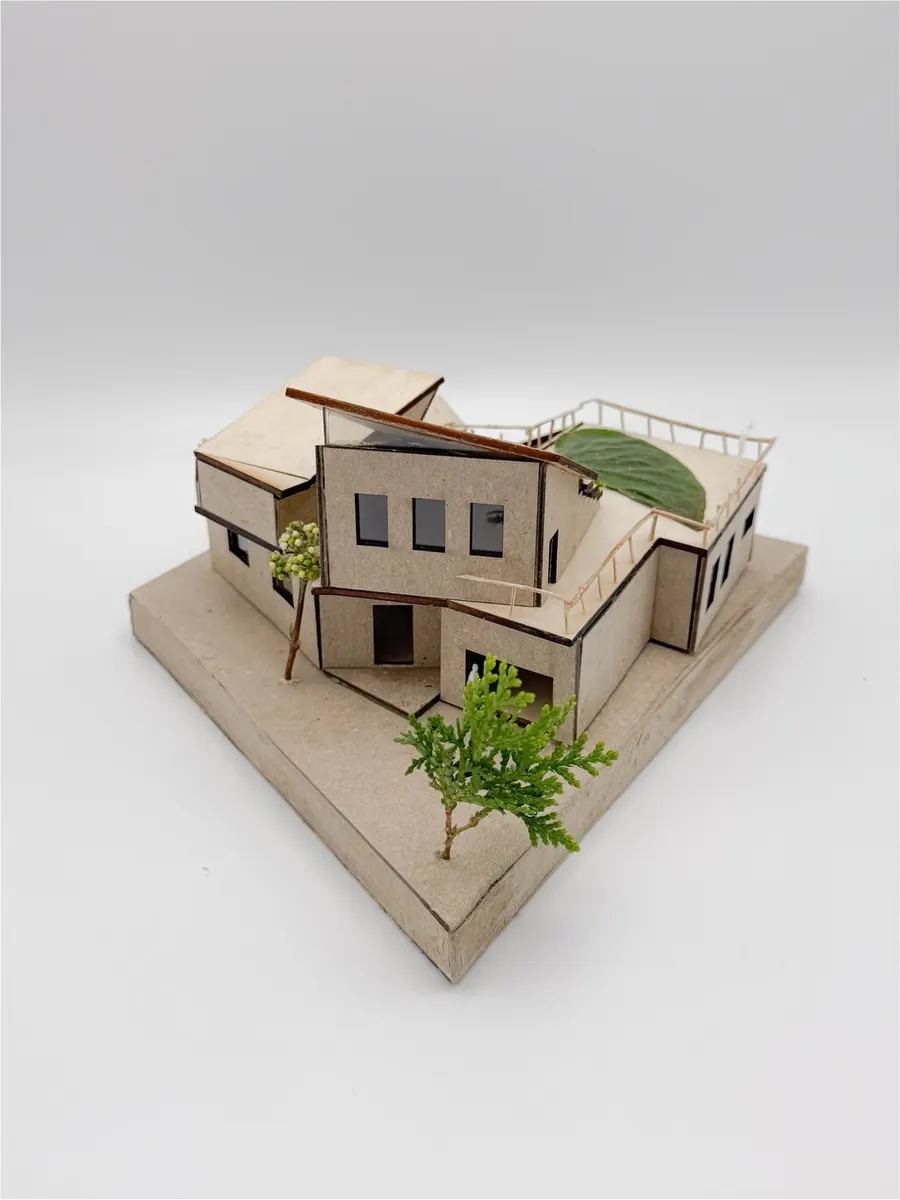
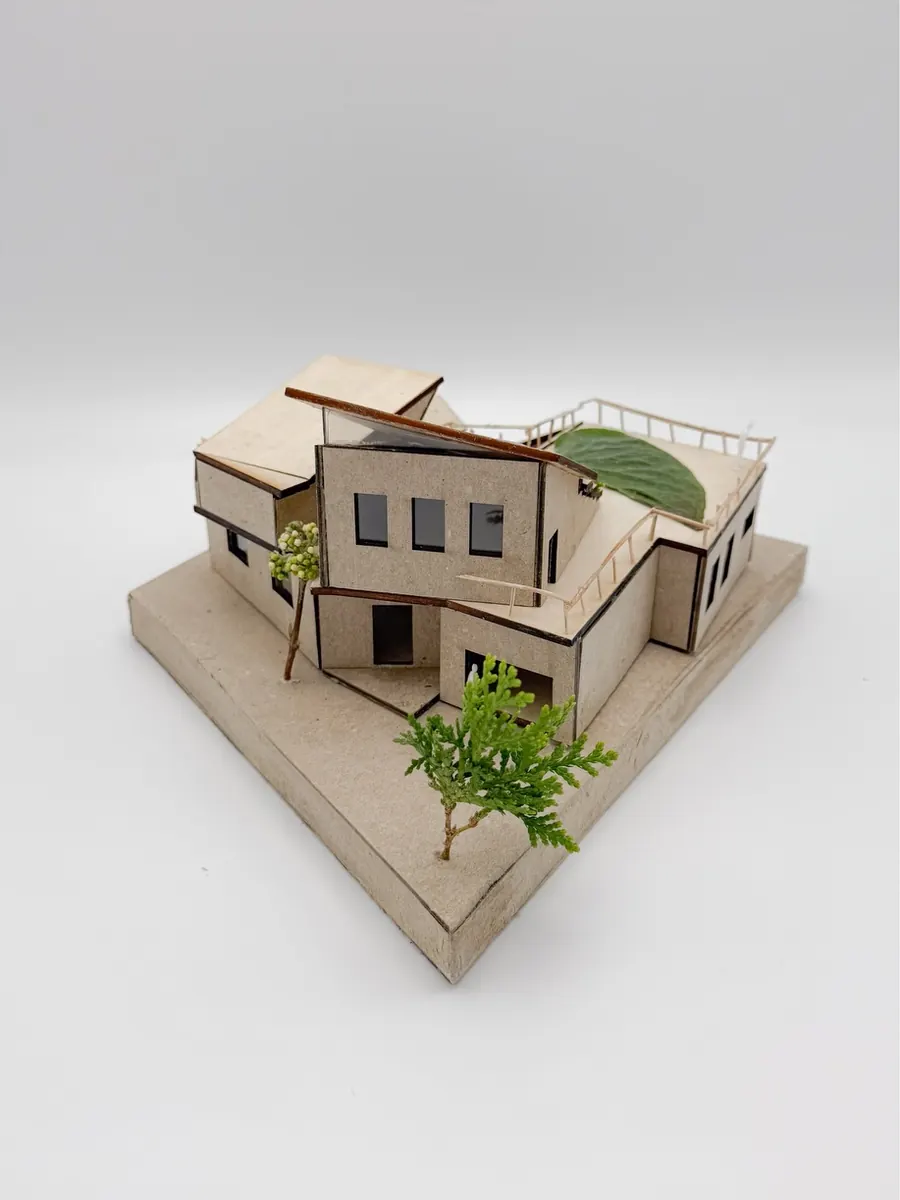
Trim stray edge lines, "the beach", serial commas
- build_images.py shaves 1-3px light lines that screenshots and
  Instagram exports leave on an edge (Flowers, Elk, Valley, the models)
- Lone Tree: "on the beach"
- Intro and meta copy use the serial comma, matching the bio

diff --git a/index.html b/index.html
@@ -4,9 +4,9 @@
 <meta charset="utf-8">
 <meta name="viewport" content="width=device-width, initial-scale=1">
 <title>Grace Gilhool | Photography</title>
-<meta name="description" content="Grace Gilhool photographs portraits, events, sports and food in Telluride and Boulder, Colorado.">
+<meta name="description" content="Grace Gilhool photographs portraits, events, sports, and food in Telluride and Boulder, Colorado.">
 <meta property="og:title" content="Grace Gilhool | Photography">
-<meta property="og:description" content="Grace Gilhool photographs portraits, events, sports and food in Telluride and Boulder, Colorado.">
+<meta property="og:description" content="Grace Gilhool photographs portraits, events, sports, and food in Telluride and Boulder, Colorado.">
 <meta property="og:image" content="https://gracegilhool.com/images/fulls/beret-portrait.webp">
 <link rel="icon" href="favicon.png">
 <link rel="preconnect" href="https://fonts.googleapis.com">
@@ -21,8 +21,8 @@
 </header>
 <main>
 <section class="intro">
-  <h1>Portraits, events, sports and food, photographed in Telluride and Boulder, Colorado.</h1>
-  <p>Now booking senior portraits, headshots and events. <a href="#contact">Get in touch</a></p>
+  <h1>Portraits, events, sports, and food, photographed in Telluride and Boulder, Colorado.</h1>
+  <p>Now booking senior portraits, headshots, and events. <a href="#contact">Get in touch</a></p>
 </section>
 <section id="work" class="work" aria-label="Photography">
   <div class="filters" role="group" aria-label="Filter photos"><button type="button" data-filter="all" aria-pressed="true">All</button><button type="button" data-filter="portraits" aria-pressed="false">Portraits</button><button type="button" data-filter="events" aria-pressed="false">Events &amp; Sports</button><button type="button" data-filter="food" aria-pressed="false">Food</button><button type="button" data-filter="film" aria-pressed="false">Film</button><button type="button" data-filter="places" aria-pressed="false">Places &amp; Nature</button></div>
@@ -41,7 +41,7 @@
   <figure data-tag="places" style="--r:0.667"><a href="images/fulls/canal.webp" data-title="Canal" data-caption=""><img src="images/thumbs/canal.webp" width="800" height="1200" alt="Tree-lined canal with moored boats" loading="lazy" decoding="async"></a></figure>
   <figure data-tag="food" style="--r:1.500"><a href="images/fulls/cocktail.webp" data-title="Cocktail" data-caption=""><img src="images/thumbs/cocktail.webp" width="1200" height="800" alt="Pink cocktail with a rosemary garnish beside a salad" loading="lazy" decoding="async"></a></figure>
   <figure data-tag="portraits" style="--r:1.500"><a href="images/fulls/tula.webp" data-title="Indecisiveness" data-caption="Clearly Tula is on the fence about something... again."><img src="images/thumbs/tula.webp" width="1200" height="800" alt="Young woman in a white dress by a wooden fence below red mountains" loading="lazy" decoding="async"></a></figure>
-  <figure data-tag="places" style="--r:0.666"><a href="images/fulls/elk.webp" data-title="Elk" data-caption=""><img src="images/thumbs/elk.webp" width="799" height="1200" alt="Two young elk in a meadow" loading="lazy" decoding="async"></a></figure>
+  <figure data-tag="places" style="--r:0.667"><a href="images/fulls/elk.webp" data-title="Elk" data-caption=""><img src="images/thumbs/elk.webp" width="800" height="1200" alt="Two young elk in a meadow" loading="lazy" decoding="async"></a></figure>
   <figure data-tag="events" style="--r:1.527"><a href="images/fulls/img-9503.webp" data-title="#3 on the field" data-caption="This photo was taken on some expensive ass camera :)"><img src="images/thumbs/img-9503.webp" width="1170" height="766" alt="Telluride lacrosse player driving past a defender" loading="lazy" decoding="async"></a></figure>
   <figure data-tag="portraits" style="--r:1.500"><a href="images/fulls/lucja.webp" data-title="Lucja" data-caption="Lucja in math class, surrounded by logs"><img src="images/thumbs/lucja.webp" width="1200" height="800" alt="Young woman framed by driftwood logs on a beach" loading="lazy" decoding="async"></a></figure>
   <figure data-tag="places" style="--r:1.500"><a href="images/fulls/boots.webp" data-title="Boots" data-caption=""><img src="images/thumbs/boots.webp" width="1200" height="800" alt="Rain boots used as flower pots" loading="lazy" decoding="async"></a></figure>
@@ -50,8 +50,8 @@
   <figure data-tag="portraits" style="--r:1.519"><a href="images/fulls/img-9501.webp" data-title="Happy Olivia and Contemplative Tula" data-caption="Olivia just enjoying sitting down for once. Tula be like: &quot;Damnnn&quot;"><img src="images/thumbs/img-9501.webp" width="1170" height="770" alt="Two friends resting on red rocks" loading="lazy" decoding="async"></a></figure>
   <figure data-tag="places" style="--r:1.500"><a href="images/fulls/monkey.webp" data-title="Monkey" data-caption="A monkey in Costa Rica"><img src="images/thumbs/monkey.webp" width="1200" height="800" alt="Monkey in a leafy tree" loading="lazy" decoding="async"></a></figure>
   <figure data-tag="places" style="--r:1.535"><a href="images/fulls/img-9511.webp" data-title="Earf DAY" data-caption="For all Earth Day haters: &quot;F U&quot;"><img src="images/thumbs/img-9511.webp" width="1170" height="762" alt="Person crossing a suspension bridge into the jungle" loading="lazy" decoding="async"></a></figure>
-  <figure data-tag="places" style="--r:1.529"><a href="images/fulls/img-9500.webp" data-title="Flowers" data-caption="I honestly had no clue what to say for this one"><img src="images/thumbs/img-9500.webp" width="1170" height="765" alt="Small yellow wildflowers against a sandstone wall" loading="lazy" decoding="async"></a></figure>
-  <figure data-tag="places" style="--r:1.527"><a href="images/fulls/img-9512.webp" data-title="Lone Tree" data-caption="The inconstency of the Tree&#x27;s trajectory is highlited by a beautiful sunset on some beach."><img src="images/thumbs/img-9512.webp" width="1170" height="766" alt="Driftwood tree silhouetted on a beach at sunset" loading="lazy" decoding="async"></a></figure>
+  <figure data-tag="places" style="--r:1.531"><a href="images/fulls/img-9500.webp" data-title="Flowers" data-caption="I honestly had no clue what to say for this one"><img src="images/thumbs/img-9500.webp" width="1170" height="764" alt="Small yellow wildflowers against a sandstone wall" loading="lazy" decoding="async"></a></figure>
+  <figure data-tag="places" style="--r:1.527"><a href="images/fulls/img-9512.webp" data-title="Lone Tree" data-caption="The inconstency of the Tree&#x27;s trajectory is highlited by a beautiful sunset on the beach."><img src="images/thumbs/img-9512.webp" width="1170" height="766" alt="Driftwood tree silhouetted on a beach at sunset" loading="lazy" decoding="async"></a></figure>
   </div>
 </section>
 <section id="about" class="about">

diff --git a/architecture.html b/architecture.html
@@ -25,7 +25,7 @@
 </section>
 <section class="projects" data-lightbox>
   <article class="project">
-    <div class="project-images" data-count="1"><a href="images/fulls/model-green-roof.webp" data-title="Terraces" data-caption=""><img src="images/thumbs/model-green-roof.webp" width="901" height="1200" alt="Architectural model with stepped planted terraces, a rooftop lawn and solar panels" decoding="async"></a></div>
+    <div class="project-images" data-count="1"><a href="images/fulls/model-green-roof.webp" data-title="Terraces" data-caption=""><img src="images/thumbs/model-green-roof.webp" width="900" height="1200" alt="Architectural model with stepped planted terraces, a rooftop lawn and solar panels" decoding="async"></a></div>
     <div class="project-text">
       <p class="kind">Physical model</p>
       <h2>Terraces</h2>

diff --git a/tools/build_images.py b/tools/build_images.py
@@ -5,7 +5,8 @@ Usage: python3 tools/build_images.py path/to/photo.jpg [more photos...]
 For each photo writes images/thumbs/<name>.webp (grid tile) and
 images/fulls/<name>.webp (lightbox), where <name> is the lowercased file
 stem. Camera rotation is applied, white padding (as on Instagram exports)
-is trimmed, and all metadata (EXIF, GPS) is dropped. Originals live in
+and stray light edge lines are trimmed, and all metadata (EXIF, GPS) is
+dropped. Originals live in
 originals/, which is gitignored: everything committed here is published.
 """
 import sys
@@ -39,11 +40,32 @@ def trim_box(im: Image.Image) -> tuple:
     return (h, v, im.width - h, im.height - v)
 
 
+def hairline_box(im: Image.Image) -> tuple:
+    """Box without the 1-3px light lines screenshots and exports leave on an edge.
+
+    A line counts only if it is near-white and clearly brighter than the photo
+    just inside it, so a pale studio backdrop is kept.
+    """
+    g = np.asarray(im.convert("L")).astype(float)
+
+    def lines(edge):
+        means = edge.mean(axis=1)
+        k = 0
+        while k < 3 and means[k] >= 230 and means[k] - means[k + 3] >= 15:
+            k += 1
+        return k
+
+    top, bottom = lines(g), lines(g[::-1])
+    left, right = lines(g.T), lines(g.T[::-1])
+    return (left, top, im.width - right, im.height - bottom)
+
+
 def build(src: Path) -> None:
     name = src.stem.lower().replace(" ", "-")
     with Image.open(src) as im:
         im = ImageOps.exif_transpose(im).convert("RGB")
         im = im.crop(trim_box(im))
+        im = im.crop(hairline_box(im))
         for folder, (edge, quality) in SIZES.items():
             out = ROOT / "images" / folder / f"{name}.webp"
             copy = im.copy()

diff --git a/tools/build_site.py b/tools/build_site.py
@@ -98,8 +98,8 @@ def index(c: dict) -> str:
     services = "".join(f'<li><a href="#contact" data-shoot="{escape(s)}">{escape(s)}</a></li>' for s in c["services"])
     options = "".join(f"<option>{escape(s)}</option>" for s in c["services"])
     body = f"""<section class="intro">
-  <h1>Portraits, events, sports and food, photographed in Telluride and Boulder, Colorado.</h1>
-  <p>Now booking senior portraits, headshots and events. <a href="#contact">Get in touch</a></p>
+  <h1>Portraits, events, sports, and food, photographed in Telluride and Boulder, Colorado.</h1>
+  <p>Now booking senior portraits, headshots, and events. <a href="#contact">Get in touch</a></p>
 </section>
 <section id="work" class="work" aria-label="Photography">
   <div class="filters" role="group" aria-label="Filter photos">{filters}</div>
@@ -131,7 +131,7 @@ def index(c: dict) -> str:
   </form>
 </section>"""
     return page("Grace Gilhool | Photography",
-                "Grace Gilhool photographs portraits, events, sports and food in Telluride and Boulder, Colorado.",
+                "Grace Gilhool photographs portraits, events, sports, and food in Telluride and Boulder, Colorado.",
                 "Photography", body)
 
 
